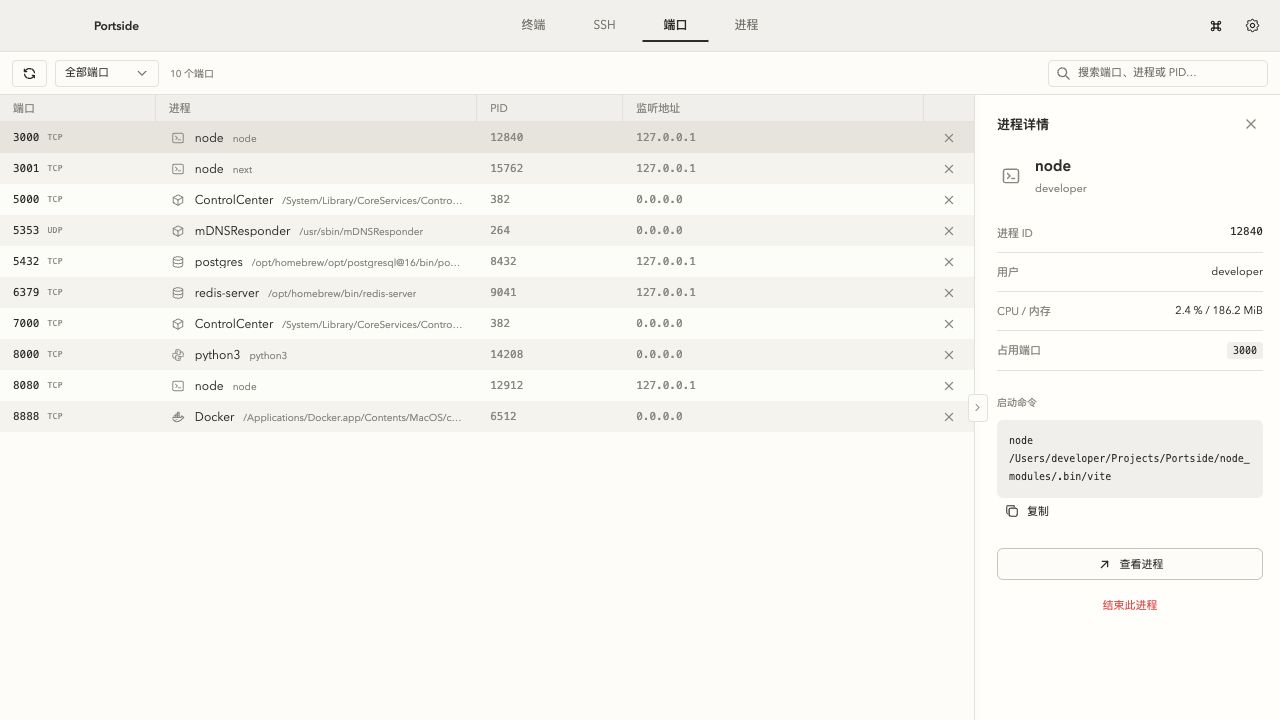
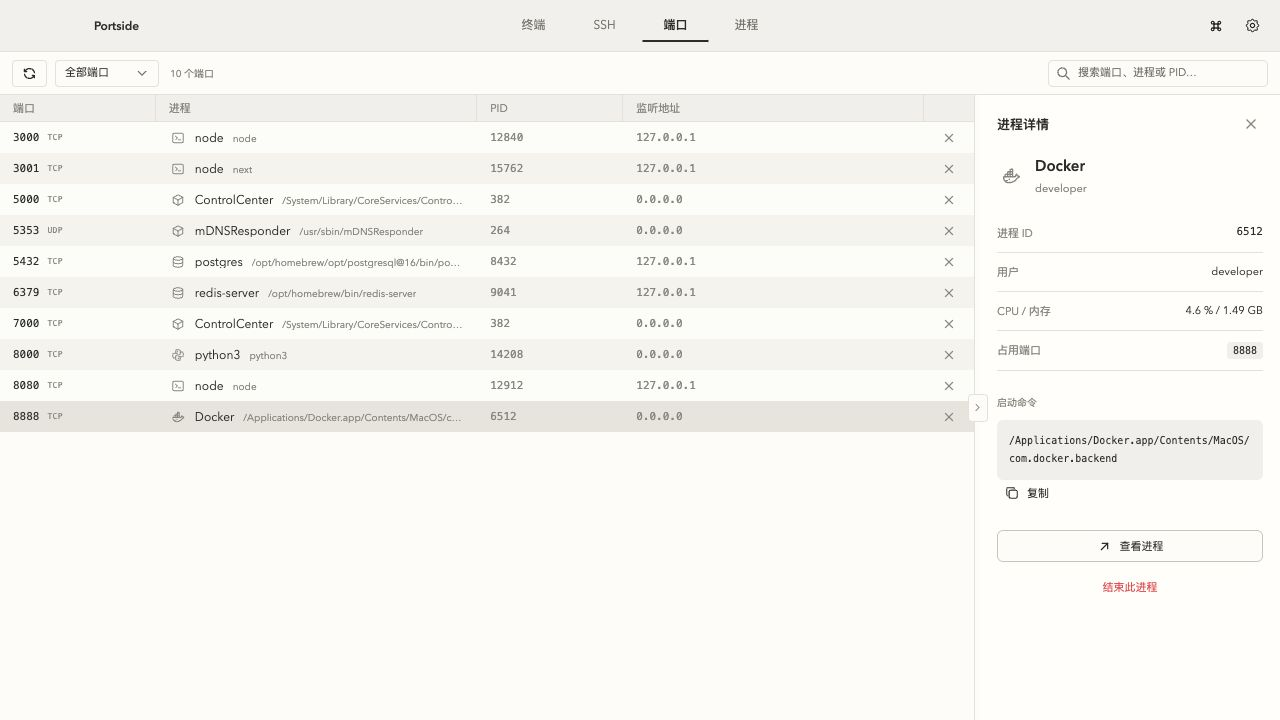
feat: align process memory with Activity Monitor footprint
Switch process memory reporting from `ps` RSS to the `ri_phys_footprint`
field from `proc_pid_rusage`, matching Activity Monitor's memory metric.

Backend now emits decimal MB; the frontend formats values below 1000 MB
as MB with one decimal and values at or above 1000 MB as GB with two
decimals, while sorting still uses raw numeric values. The list, process
detail, and port detail views share a single formatter. Read failures
display `—` without falling back to RSS, and valid zeros still show
`0.0 MB`.

Adds Rust and Node tests for the new formatting and sampling behavior,
and updates README, UI docs, and screenshots accordingly.

diff --git a/src/views/Processes/index.tsx b/src/views/Processes/index.tsx
@@ -9,7 +9,7 @@ import { IconAdjustmentsHorizontal, IconPlayerPause, IconPlayerPlay, IconRefresh
 import { useWorkspace } from '@/store/workspace';
 import { useSystemMonitor } from '@/hooks/useSystemMonitor';
 import { useProcessActions } from '@/hooks/useProcessActions';
-import { metric, iconProcess, type SystemProcess } from '@/services/system';
+import { metric, formatProcessMemory, iconProcess, type SystemProcess } from '@/services/system';
 import { Button, Search, ProcessIcon, Empty, DetailPanel, DetailRow } from '@/components/UI';
 
 export default function Processes() {
@@ -33,7 +33,7 @@ export default function Processes() {
   const columns:TableColumn<SystemProcess>[]=[
     {dataIndex:'name',title:'进程名称',sorter:true,width:'35%',render:(_,p)=><div className="process-cell"><ProcessIcon process={iconProcess(p)}/><span><strong>{p.name}</strong><small title={p.executable}>{p.executable||p.user}</small></span></div>},
     {dataIndex:'cpu',title:<span title="进程占整机 CPU 的比例，与悬浮球使用相同口径；所有逻辑核心满载为 100%。">CPU</span>,sorter:true,render:cpu=><div className="metric"><span className="mono">{metric(cpu,'%')}</span>{cpu!==null&&<span className="metric-track"><i style={{width:`${Math.min(cpu,100)}%`}}/></span>}</div>},
-    {dataIndex:'memory',title:'内存',sorter:true,render:memory=><span className="mono">{metric(memory,'MiB')}</span>},
+    {dataIndex:'memory',title:<span title="Memory Footprint，与活动监视器的内存使用相同口径。">内存</span>,sorter:true,render:memory=><span className="mono">{formatProcessMemory(memory)}</span>},
     {dataIndex:'pid',title:'PID',sorter:true,render:pid=><span className="mono muted">{pid}</span>},
     {dataIndex:'disk',title:'磁盘读写',sorter:true,hidden:!settings.extraColumns,render:n=><span className="mono">{metric(n,'KiB/s')}</span>},
     {dataIndex:'network',title:'网络',sorter:true,hidden:!settings.extraColumns,render:n=><span className="mono">{metric(n,'KiB/s')}</span>},
@@ -41,7 +41,7 @@ export default function Processes() {
   return <div className={`page processes-page ${settings.extraColumns?'has-extra-columns':''}`}>
     <div className="toolbar"><Button aria-label={paused?'继续刷新':'暂停刷新'} title={paused?'继续刷新':'暂停刷新'} icon={paused?<IconPlayerPlay size={15}/>:<IconPlayerPause size={15}/>} onClick={()=>setPaused(!paused)}/><Button aria-label="立即刷新" title="立即刷新" loading={loading} disabled={paused} icon={<IconRefresh size={15}/>} onClick={()=>void refresh()}/><Button aria-label={settings.extraColumns?'精简列':'显示更多列'} title={settings.extraColumns?'精简列':'显示更多列'} icon={<IconAdjustmentsHorizontal size={16}/>} onClick={()=>setSettings({extraColumns:!settings.extraColumns})}/><Select<string> className="scope-select" aria-label="进程范围" size="small" value={scope} onChange={setScope} options={[{value:'mine',label:'我的进程'},{value:'all',label:'全部进程'}]}/><span className="toolbar-count" title={snapshot?.warnings.join('\n')}>{data.length} 个进程{paused?' · 已暂停':''}</span><Search value={query} onChange={setQuery}/></div>
     {error&&<div role="alert" className="form-error" style={{padding:'8px 16px'}}>{error}</div>}
-    <ResizableWorkspace className="process-split" label="进程详情" sidebar={<DetailPanel title="进程详情" onClear={selected?()=>setSelectedIdentity(undefined):undefined}>{selected&&<><div className="detail-identity"><ProcessIcon process={iconProcess(selected)}/><div><h3>{selected.name}</h3><p>{selected.user}</p></div></div><DetailRow label="PID / 父进程"><span className="mono">{selected.pid} / {selected.parent}</span></DetailRow><DetailRow label="CPU">{metric(selected.cpu,'%')}</DetailRow><DetailRow label="内存 RSS">{metric(selected.memory,'MiB')}</DetailRow><DetailRow label="磁盘读写">{metric(selected.disk,'KiB/s')}</DetailRow><DetailRow label="网络下载">{metric(selected.networkIn,'KiB/s')}</DetailRow><DetailRow label="网络上传">{metric(selected.networkOut,'KiB/s')}</DetailRow><DetailRow label="用户">{selected.user}</DetailRow><DetailRow label="启动时间">{selected.started}</DetailRow><DetailRow label="关联端口">{ports.filter(p=>p.pid===selected.pid).map(p=>p.port).join('、')||'无可见监听端口'}</DetailRow><div className="detail-block"><h4>程序路径</h4><code>{selected.executable||'权限受限，不可用'}</code><h4>启动命令</h4><code>{selected.command||'权限受限，不可用'}</code></div>{selected.metricsNote&&<p className="muted" style={{fontSize:11}}>{selected.metricsNote}</p>}<p className="muted" style={{fontSize:11}}>CPU：占整机的比例；内存：常驻物理页；磁盘 / 网络：采样间隔内速率。</p><Button block danger disabled={ending!==undefined} loading={ending===selected.pid} onClick={()=>requestEnd(selected)}>结束进程</Button></>}</DetailPanel>}>
+    <ResizableWorkspace className="process-split" label="进程详情" sidebar={<DetailPanel title="进程详情" onClear={selected?()=>setSelectedIdentity(undefined):undefined}>{selected&&<><div className="detail-identity"><ProcessIcon process={iconProcess(selected)}/><div><h3>{selected.name}</h3><p>{selected.user}</p></div></div><DetailRow label="PID / 父进程"><span className="mono">{selected.pid} / {selected.parent}</span></DetailRow><DetailRow label="CPU">{metric(selected.cpu,'%')}</DetailRow><DetailRow label="内存">{formatProcessMemory(selected.memory)}</DetailRow><DetailRow label="磁盘读写">{metric(selected.disk,'KiB/s')}</DetailRow><DetailRow label="网络下载">{metric(selected.networkIn,'KiB/s')}</DetailRow><DetailRow label="网络上传">{metric(selected.networkOut,'KiB/s')}</DetailRow><DetailRow label="用户">{selected.user}</DetailRow><DetailRow label="启动时间">{selected.started}</DetailRow><DetailRow label="关联端口">{ports.filter(p=>p.pid===selected.pid).map(p=>p.port).join('、')||'无可见监听端口'}</DetailRow><div className="detail-block"><h4>程序路径</h4><code>{selected.executable||'权限受限，不可用'}</code><h4>启动命令</h4><code>{selected.command||'权限受限，不可用'}</code></div>{selected.metricsNote&&<p className="muted" style={{fontSize:11}}>{selected.metricsNote}</p>}<p className="muted" style={{fontSize:11}}>CPU：占整机的比例；内存：Memory Footprint（含压缩等系统记账）；磁盘 / 网络：采样间隔内速率。</p><Button block danger disabled={ending!==undefined} loading={ending===selected.pid} onClick={()=>requestEnd(selected)}>结束进程</Button></>}</DetailPanel>}>
       <div className="table-area"><Table<SystemProcess> rowKey="pid" data={data} columns={columns} sort={sort} onSortChange={setSort} rowClassName={p=>p.identity===selectedIdentity?'selected-row':''} onRow={p=>({onContextMenu:event=>{event.preventDefault();setContext({x:event.clientX,y:event.clientY,identity:p.identity})},onClick:()=>setSelectedIdentity(p.identity),tabIndex:0,onKeyDown:e=>{if(e.key==='Enter')setSelectedIdentity(p.identity)},'aria-label':`查看 ${p.name} 进程`})} empty={<Empty title={loading?'正在读取进程…':'没有找到进程'} description="当前仅展示真实系统数据，可调整筛选条件。"/>}/></div>
     </ResizableWorkspace>
     {context&&<RowContextMenu key={`${context.x}:${context.y}:${context.identity}`} point={context} onClose={closeContext} items={[{key:'end',label:'结束进程',icon:<IconX size={15}/>,danger:true,disabled:!contextProcess||ending!==undefined}]} onAction={()=>{if(contextProcess)requestEnd(contextProcess)}}/>}

diff --git a/src/views/Ports/index.tsx b/src/views/Ports/index.tsx
@@ -9,7 +9,7 @@ import { useMediaQuery } from '@/hooks/useMediaQuery';
 import { useSystemMonitor } from '@/hooks/useSystemMonitor';
 import { useProcessActions } from '@/hooks/useProcessActions';
 import { writeClipboard } from '@/services/clipboard';
-import { metric, iconProcess, type SystemPort } from '@/services/system';
+import { metric, formatProcessMemory, iconProcess, type SystemPort } from '@/services/system';
 import { Button, Search, ProcessIcon, Empty, DetailPanel, DetailRow, IconAction } from '@/components/UI';
 
 export default function Ports() {
@@ -35,7 +35,7 @@ export default function Ports() {
   return <div className="page ports-page">
     <div className="toolbar"><Button aria-label="刷新" title="刷新真实端口" loading={loading} icon={<IconRefresh size={15}/>} onClick={()=>void refresh()}/><Select<string> className="scope-select" aria-label="端口范围" size="small" value={scope} onChange={setScope} options={[{value:'all',label:'全部端口'},{value:'local',label:'仅本机'},{value:'network',label:'非回环地址'}]}/><span className="toolbar-count" title={snapshot?.warnings.join('\n')}>{data.length} 个端口</span><Search value={query} onChange={setQuery} placeholder="搜索端口、进程或 PID…"/></div>
     {error&&<div role="alert" className="form-error" style={{padding:'8px 16px'}}>{error}</div>}
-    <ResizableWorkspace className="process-split" label="进程详情" sidebar={<DetailPanel title="进程详情" onClear={selected?()=>setSelectedIdentity(undefined):undefined}>{selected&&<><div className="detail-identity"><ProcessIcon process={iconProcess(selected)}/><div><h3>{selected.name}</h3><p>{selected.user}</p></div></div><DetailRow label="进程 ID"><span className="mono">{selected.pid}</span></DetailRow><DetailRow label="用户">{selected.user}</DetailRow><DetailRow label="CPU / 内存">{metric(selected.cpu,'%')} / {metric(selected.memory,'MiB')}</DetailRow><DetailRow label="占用端口"><div className="chips">{ports.filter(p=>p.pid===selected.pid).map(p=><span key={p.id} className="chip mono">{p.port}</span>)}</div></DetailRow><div className="detail-block"><h4>启动命令</h4><code>{selected.command||'不可用'}</code><Button size="small" type="text" icon={<IconCopy size={14}/>} onClick={()=>{void writeClipboard(selected.command).then(()=>message.success('已复制命令')).catch(()=>message.error('复制失败，请手动选择命令'))}}>复制</Button></div><Button block icon={<IconArrowUpRight size={15}/>} onClick={()=>navigate(`/processes?pid=${selected.pid}`)}>查看进程</Button><Button block type="text" danger disabled={ending!==undefined} loading={ending===selected.pid} onClick={()=>requestEnd(selected)}>结束此进程</Button></>}</DetailPanel>}>
+    <ResizableWorkspace className="process-split" label="进程详情" sidebar={<DetailPanel title="进程详情" onClear={selected?()=>setSelectedIdentity(undefined):undefined}>{selected&&<><div className="detail-identity"><ProcessIcon process={iconProcess(selected)}/><div><h3>{selected.name}</h3><p>{selected.user}</p></div></div><DetailRow label="进程 ID"><span className="mono">{selected.pid}</span></DetailRow><DetailRow label="用户">{selected.user}</DetailRow><DetailRow label="CPU / 内存">{metric(selected.cpu,'%')} / {formatProcessMemory(selected.memory)}</DetailRow><DetailRow label="占用端口"><div className="chips">{ports.filter(p=>p.pid===selected.pid).map(p=><span key={p.id} className="chip mono">{p.port}</span>)}</div></DetailRow><div className="detail-block"><h4>启动命令</h4><code>{selected.command||'不可用'}</code><Button size="small" type="text" icon={<IconCopy size={14}/>} onClick={()=>{void writeClipboard(selected.command).then(()=>message.success('已复制命令')).catch(()=>message.error('复制失败，请手动选择命令'))}}>复制</Button></div><Button block icon={<IconArrowUpRight size={15}/>} onClick={()=>navigate(`/processes?pid=${selected.pid}`)}>查看进程</Button><Button block type="text" danger disabled={ending!==undefined} loading={ending===selected.pid} onClick={()=>requestEnd(selected)}>结束此进程</Button></>}</DetailPanel>}>
       <div className="table-area"><Table<SystemPort> rowKey="id" data={data} columns={columns} rowClassName={p=>selectedIdentity&&processes.find(item=>item.pid===p.pid)?.identity===selectedIdentity?'selected-row':''} onRow={p=>({onContextMenu:event=>{event.preventDefault();setContext({x:event.clientX,y:event.clientY,identity:processes.find(item=>item.pid===p.pid)?.identity})},onClick:()=>setSelectedIdentity(processes.find(item=>item.pid===p.pid)?.identity),tabIndex:0,onKeyDown:event=>{if(event.key==='Enter'&&event.target===event.currentTarget)setSelectedIdentity(processes.find(item=>item.pid===p.pid)?.identity)},'aria-label':`查看端口 ${p.port} 进程详情`})} size="middle" empty={<Empty title={loading?'正在读取端口…':'没有找到监听端口'} description="显示当前权限下可读取的 TCP 监听端口及 UDP 绑定端口。"/>}/></div>
     </ResizableWorkspace>
     {context&&<RowContextMenu key={`${context.x}:${context.y}:${context.identity}`} point={context} onClose={closeContext} items={[{key:'view',label:'查看进程',icon:<IconArrowUpRight size={15}/>,disabled:!contextProcess},{key:'end',label:'结束进程',icon:<IconX size={15}/>,danger:true,disabled:!contextProcess||ending!==undefined}]} onAction={key=>{if(!contextProcess)return;if(key==='view')navigate(`/processes?pid=${contextProcess.pid}`);if(key==='end')requestEnd(contextProcess)}}/>}

diff --git a/src/services/system.ts b/src/services/system.ts
@@ -1,7 +1,8 @@
 import { invoke, isTauri } from '@tauri-apps/api/core';
+export { formatProcessMemory } from '@/utils/processMemory';
 import type { Process } from '@/data/demo';
 export type SystemProcess = Omit<Process, 'cpu' | 'memory' | 'disk' | 'network'> & {
-  cpu: number | null; memory: number | null; disk: number | null; network: number | null;
+  cpu: number | null; /** Physical footprint in decimal MB. */ memory: number | null; disk: number | null; network: number | null;
   networkIn: number | null; networkOut: number | null; parent: number; mine: boolean;
   identity: string; executable: string; started: string; metricsNote: string;
 };

diff --git a/src/utils/processMemory.ts b/src/utils/processMemory.ts
@@ -1,0 +1,3 @@
+// Native sampler supplies physical footprint in decimal MB (not RSS / MiB).
+export const formatProcessMemory = (mb: number | null | undefined): string =>
+  mb == null || !Number.isFinite(mb) || mb < 0 ? '—' : mb >= 1000 ? `${(mb / 1000).toFixed(2)} GB` : `${mb.toFixed(1)} MB`;

diff --git a/src-tauri/src/system.rs b/src-tauri/src/system.rs
@@ -23,6 +23,7 @@ pub struct ProcessInfo {
     pub identity: String,
     pub color: String,
     pub cpu: Option<f64>,
+    /// Physical footprint in decimal MB, matching Activity Monitor's memory metric.
     pub memory: Option<f64>,
     pub disk: Option<f64>,
     pub network: Option<f64>,
@@ -125,6 +126,9 @@ fn process_cpu_percent(ticks: u64, seconds: f64) -> Option<f64> {
 fn cpu_percent_for_timebase(ticks: u64, seconds: f64, numer: u32, denom: u32, logical_cpus: u32) -> Option<f64> {
     if !seconds.is_finite() || seconds <= 0.0 || numer == 0 || denom == 0 || logical_cpus == 0 { return None }
     Some(ticks as f64 * (numer as f64 / denom as f64) / 1e9 / seconds / logical_cpus as f64 * 100.0)
+}
+fn footprint_mb(usage: Option<&Usage>) -> Option<f64> {
+    usage.map(|usage| usage.footprint as f64 / 1_000_000.0)
 }
 fn executable(pid: u32) -> String {
     let mut b = [0u8; 4096];
@@ -240,7 +244,7 @@ fn process_rows(pid: Option<u32>) -> Result<Vec<(ProcessInfo, Option<Usage>)>, S
                 name,
                 color: "gray".into(),
                 cpu: None,
-                memory: fields[5].parse::<f64>().ok().map(|rss| rss / 1024.),
+                memory: footprint_mb(u.as_ref()),
                 disk: None,
                 network: None,
                 network_in: None,
@@ -340,7 +344,7 @@ impl Sampler {
                 HashMap::new()
             }
         };
-        warnings.push("系统权限可能限制其他用户的端口、命令行和资源数据；— 表示首采样或不可用。CPU 为进程占整机的比例（按逻辑核心数归一化），内存为 RSS MiB，磁盘和网络为采样间隔内 KiB/s。".into());
+        warnings.push("系统权限可能限制其他用户的端口、命令行和资源数据；— 表示首采样或不可用。CPU 为进程占整机的比例（按逻辑核心数归一化），内存为 Memory Footprint（MB / GB），磁盘和网络为采样间隔内 KiB/s。".into());
         let now = Instant::now();
         let mut next = HashMap::new();
         let mut processes = vec![];
@@ -467,6 +471,20 @@ mod tests {
             parse_network("Google.Chrome.42,123,456,\n").get(&42),
             Some(&(123, 456))
         );
+    }
+    #[test]
+    fn footprint_does_not_fall_back_to_resident_memory() {
+        let usage = Usage { resident: 200_000_000, footprint: 1_500_000_000, ..Usage::default() };
+        assert_eq!(footprint_mb(Some(&usage)), Some(1500.0));
+        assert_eq!(footprint_mb(None), None);
+        assert_eq!(footprint_mb(Some(&Usage::default())), Some(0.0));
+    }
+    #[test]
+    fn process_memory_matches_native_footprint_in_decimal_mb() {
+        let (process, native) = process_rows(Some(std::process::id())).unwrap().remove(0);
+        let footprint_mb = native.expect("native self usage").footprint as f64 / 1_000_000.0;
+        println!("display memory: {:?}, native footprint: {footprint_mb:.3} MB", process.memory);
+        assert_eq!(process.memory, Some(footprint_mb));
     }
     #[test]
     fn protects_core_and_self() {

diff --git a/doc/系统能力自测.md b/doc/系统能力自测.md
@@ -6,7 +6,7 @@
 
 - `/bin/ps` 读取真实 PID、父进程、UID、用户名、RSS、启动时间、完整启动参数；`proc_pidpath` 读取程序路径。
 - `proc_pid_rusage(RUSAGE_INFO_V2)` 获取 CPU 时间、精确启动标识、磁盘累计字节数。CPU 用相邻采样时间差计算并除以逻辑核心数，显示进程占整机的比例；所有逻辑核心满载合计为 100%。首次采样显示 `—`，不拿 0 代替尚未采集的数据。
-- 内存为 RSS，以 MiB 显示。磁盘为进程的读写累计字节差，以 KiB/s 显示，受 macOS 内核记账及缓存行为影响，不能等同于文件写入量。
+- 内存使用 `proc_pid_rusage` 的 `ri_phys_footprint`，以十进制 MB / GB 显示，与活动监视器口径一致；读取失败显示 `—`，不回退到 RSS。磁盘为进程的读写累计字节差，以 KiB/s 显示，受 macOS 内核记账及缓存行为影响，不能等同于文件写入量。
 - `/usr/bin/nettop -P -L 1 -n -x -J bytes_in,bytes_out` 读取每进程 TCP / UDP 计数，再差分为上传、下载 KiB/s。新进程、没有可观察套接字、计数回退、权限受限时显示 `—`。不把未被 nettop 观察到的进程当成零流量。
 - `/usr/sbin/lsof` 读取 TCP LISTEN 与 UDP 绑定端口，支持 IPv4 / IPv6、按协议 / 地址 / PID 去重；无具体数字端口的 `*:*` 跳过。UDP 已连接套接字取本地端点。
 - 两页共享 single-flight 采样和后端缓存；只在端口 / 进程路由可见、窗口文档可见且没有暂停时每 2 秒读取。暂停保留当前数据。隐藏页面不会单独启动采集。
@@ -75,3 +75,10 @@
 保留 Mach timebase 换算，将进程 CPU 再除以 macOS 在线逻辑核心数；核心数读取失败时显示不可用。进程列表和详情统一消费后端归一化结果，悬浮球保持整机 CPU 采集方式。10 核机器一个核心满载约 10%，两个核心约 20%，全部核心满载约 100%。
 
 `cargo test --manifest-path src-tauri/Cargo.toml --lib system::tests -- --nocapture`：8 项通过。纯计算覆盖不同 timebase、1/10 核、整机满载与无效核心数；真实忙循环在本机 10 核下测得整机占比 7.11%（并行测试期间实际负载有波动）。用户筛选、权限及独立采样时刻仍会导致进程列表合计与悬浮球数值存在差异。
+
+
+## 进程内存 Footprint 回归（2026-10-16）
+
+新增 `process_memory_matches_native_footprint_in_decimal_mb`，执行真实 `process_rows` 并校验显示值等于同一采样的原生 `ri_phys_footprint / 1e6`。修复前失败：RSS 显示值为 10.671875 MiB，原生 Footprint 为 2.474392 MB；修复后通过，系统模块 10 项测试全部通过。额外测试验证 RSS 与 Footprint 不同时优先后者、读取失败不回退以及零值保留。
+
+`node --test scripts/process-memory.test.mjs`：2 项通过，覆盖十进制 MB / GB 边界、GB 小数位、缺失与无效值。真实采集回归与浏览器示例界面验收分别验证采集字段和列表 / 两处详情显示。Footprint 参照 [Apple WWDC22 说明](https://developer.apple.com/videos/play/wwdc2022/10106/)。

diff --git a/README.md b/README.md
@@ -62,7 +62,7 @@
 
 单击一行查看右侧详情，右键可 **结束进程**。
 
-CPU 显示该进程占整机的比例，与悬浮球使用相同口径：例如 10 核机器占满一核约为 10%。内存为 RSS；磁盘、网络显示采样间隔内的速率。首个样本或权限不足时显示 `—`。筛选范围、权限和采样时间不同，列表合计不一定等于悬浮球的当前读数。
+CPU 显示该进程占整机的比例，与悬浮球使用相同口径：例如 10 核机器占满一核约为 10%。内存采用与活动监视器相同的 Memory Footprint 口径，以 MB / GB 显示；磁盘、网络显示采样间隔内的速率。首个样本或权限不足时显示 `—`。筛选范围、权限和采样时间不同，列表合计不一定等于悬浮球的当前读数。
 
 ## 悬浮球与设置
 

diff --git a/doc/真实功能验收.md b/doc/真实功能验收.md
@@ -41,7 +41,7 @@
 
 ## 验证边界
 
-- CPU 按逻辑核心数归一化，显示进程占整机的比例，内存 RSS MiB，磁盘与网络 KiB/s；macOS 普通用户不能读取所有系统进程细节。
+- CPU 按逻辑核心数归一化，显示进程占整机的比例，内存 Memory Footprint（MB / GB），磁盘与网络 KiB/s；macOS 普通用户不能读取所有系统进程细节。
 - 普通浏览器仅预览界面和管理配置；原生能力明确提示使用桌面 App，不返回假成功。
 - 当前交付为 Apple Silicon 本机调试包，尚未签名、公证、制作正式安装器，也未验证其他芯片或 macOS 版本。
 - SFTP 核心上传已通过原生文件对话框验证；Finder 实际拖放入口尚无手工拖放证据。
